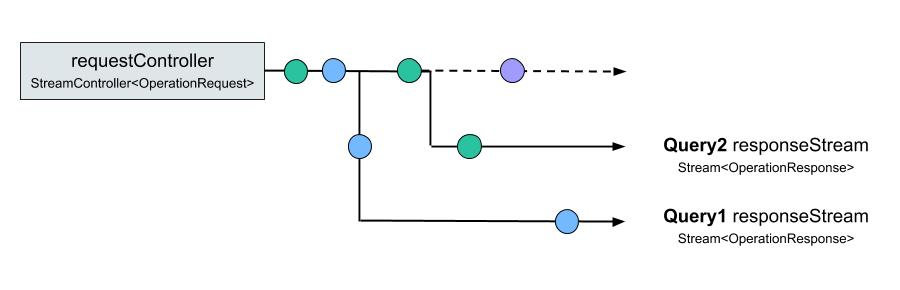
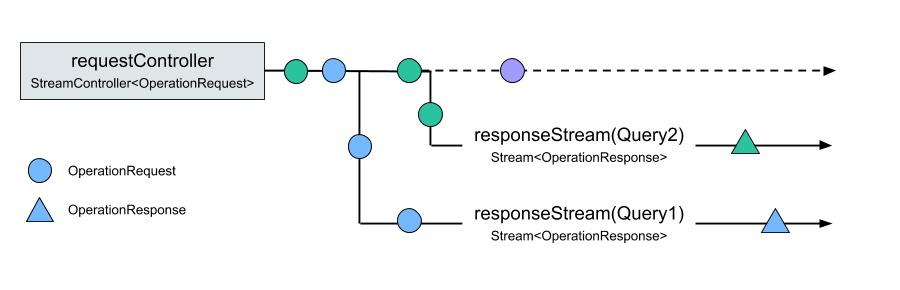
updates to intro and architecture

diff --git a/sidebars.js b/sidebars.js
@@ -1,8 +1,8 @@
 module.exports = {
   someSidebar: {
-    Ferry: ['intro', 'packages'],
-    'Getting Started': ['setup', 'codegen', 'fetching-data'],
-    Caching: ['cache-updates'],
+    Ferry: ['intro', 'design'],
+    'Getting Started': ['setup', 'codegen'],
+    'Fetching Data': ['operations', 'cache-updates'],
     Flutter: ['flutter'],
   },
 };

diff --git a/docs/design.md b/docs/design.md
@@ -1,9 +1,32 @@
 ---
-id: packages
-title: Packages
+id: design
+title: Design
 ---
 
-Ferry is divided into a number of seperate packages.
+Any functional GraphQL client includes three major components:
+
+1. A network interface to communicate with a GraphQL server
+2. A Cache to store the data returned from the server
+3. A management layer that routes GraphQL Operations to the network or cache
+
+Ferry was designed to be small and modular.
+
+The network interface is offloaded to the `gql_link` package, caching is done by `ferry_cache`, and the core `ferry` client handles the routing and management of GraphQL Operations.
+
+## How the Client Works
+
+In Ferry, each GraphQL Operation (including Queries, Mutations & Subscriptions) is wrapped in an `OperationRequest`, which includes the GraphQL document for the operation, any variables used in the operation, and any additional configuration need to correctly execute the request (or trigger a side effect, such as an optimistic cache update).
+
+The core Ferry Client has a very simple API, consisting of:
+
+1. **`Client.requestController`**: a single StreamController that receives all `OperationRequest`s.
+2. **`Client.responseStream()`**: a method that, given a specific `OperationRequest`, filters the `requestController` for only those events, resolves the request via the Cache or network (depending on the `OperationRequest.FetchPolicy`), and returns a Stream of `OperationResponse`s.
+
+![Ferry request architecture](../static/img/request-response.jpg)
+
+## Packages
+
+Here's a full list of Ferry pacakges, along with a short description of each:
 
 | Pub                                                                      | Package                                                       | Description                                     |
 | ------------------------------------------------------------------------ | ------------------------------------------------------------- | ----------------------------------------------- |

diff --git a/docs/intro.md b/docs/intro.md
@@ -12,17 +12,5 @@ Ferry is a simple but powerful GraphQL Client for Flutter & Dart.
 3. 🌐 **Customizable Network Interface**: highly customizable network interface using `gql_link`, allowing you to compose and extend `Link`s.
 4. ✨ **Normalized Optimistic Cache**: keep data in sync with cache normalization and update your UI instantly with optimistic data.
 5. 💾 **Multiple Data Stores**: extensible `Store` interface with built-in `MemoryStore` and `HiveStore` (which uses `hive` for offline persistence)
-6. 📄 **Fetch More & Pagination**: easily update responses with new data or combine multiple responses, allowing for seamless pagination
+6. 📄 **Refetch & Pagination**: easily update responses with new data or combine multiple responses, allowing for seamless pagination
 7. 📱 **Flutter Widgets**: Widgets for Queries, Mutations, and Subscriptions, available out of the box
-
-## Architecture
-
-The core Ferry client architecture is very simple, consisting of:
-1. **`Client.requestController`**: a single StreamController of `OperationRequest`s.
-2. **`Client.responseStream()`**: a method that generates a Stream of `OperationResponse`s for a given `OperationRequest`.
-
-In Ferry, each GraphQL Operation (including Queries, Mutations & Subscriptions) is wrapped in an `OperationRequest` which can be dispatched to the `requestController`.
-
-Any `responseStream` created for a particular `OperationRequest` will listen to the `requestController` and resolve any matching requests from the Cache or Network (depending on the `OperationRequest.FetchPolicy`), returning a stream of `OperationResponse`s.
-
-![Ferry request architecture](../static/img/request-response.jpg)

diff --git a/docs/operations.md b/docs/operations.md
@@ -1,6 +1,6 @@
 ---
-id: fetching-data
-title: Fetching Data
+id: operations
+title: Queries & Mutations
 ---
 
 ## Queries
